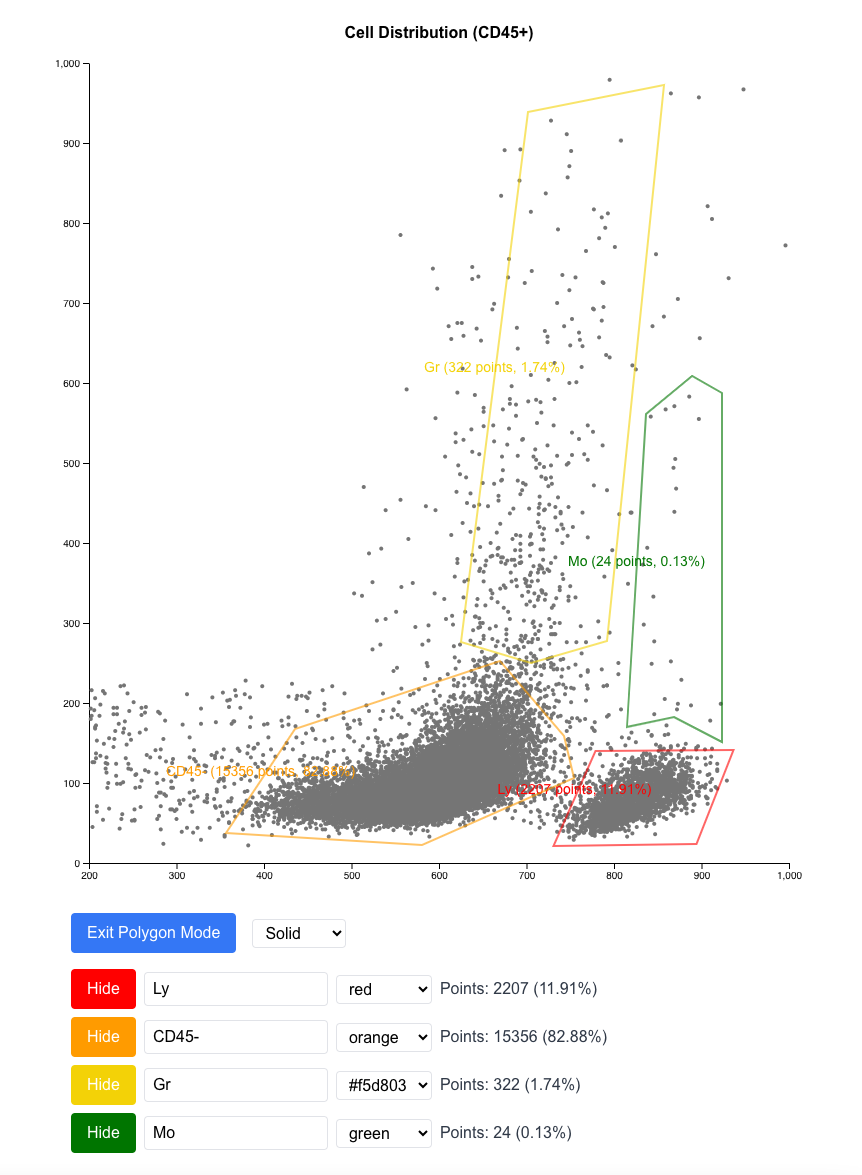
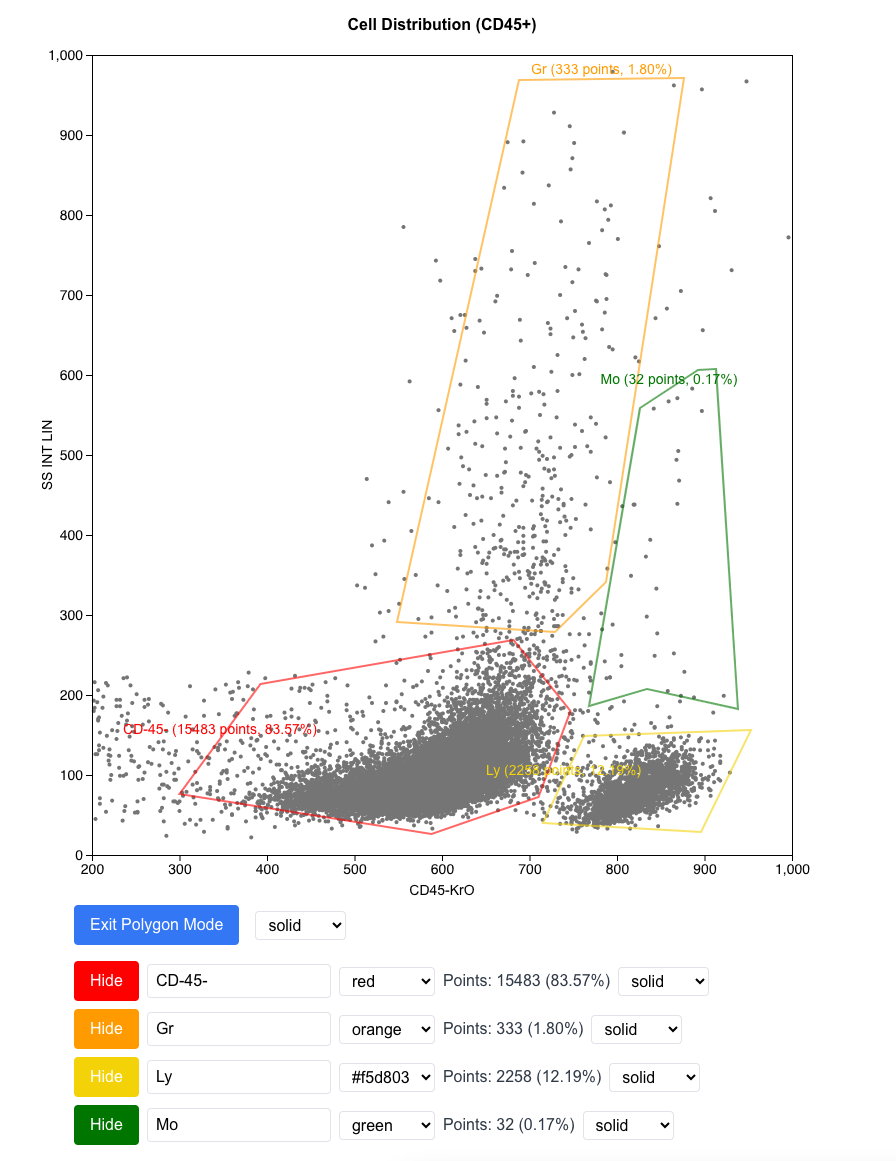
update readme and rename draw polygon button

diff --git a/src/components/ScatterPlot/PolygonControls.tsx b/src/components/ScatterPlot/PolygonControls.tsx
@@ -31,7 +31,7 @@ const PolygonControls: React.FC<PolygonControlsProps> = ({
           }}
           className="bg-blue-500 text-white px-4 py-2 rounded mr-4"
         >
-          {isPolygonMode ? "Exit Polygon Mode" : "Draw Polygon"}
+          {isPolygonMode ? "Exit Polygon Mode" : "Arbitrary Polygon"}
         </button>
         <Selecter
           value={drawLineStyle}

diff --git a/README.md b/README.md
@@ -1,11 +1,15 @@
 # Scatter Plot Visualization Project
 
+## Instructions:
+
+<img src="https://ahead-scatter.vercel.app/result.png" alt="Example Image" style="width:50%;">
+
+- Click the Arbitrary Polygon button to start selecting multiple areas in the scatter plot and click again to close the draw mode.
+- Once the selection is complete, a corresponding set of action buttons will appear below. These buttons allow you to perform operations such as hiding, labeling, changing the border color, and adjusting the border style. Additionally, the data volume and percentage will be calculated simultaneously.
+
 ## Demo Link & Expected Result Image
 
 Demo Link: [Scatter Plot Demo](https://ahead-scatter.vercel.app)
-
-Expected Result:
-<img src="https://ahead-scatter.vercel.app/result.png" alt="Example Image" style="width:50%;">
 
 ## Project Structure
 
@@ -68,3 +72,11 @@ Expected Result:
   ```bash
   docker compose up
   ```
+
+## Component
+
+1. Import **`ScatterPlot`** component
+2. Set Properties
+   - **`xAxes`**: Specifies the label for the X-axis data (e.g., "CD45-KrO").
+   - **`yAxes`**: Specifies the label for the Y-axis data (e.g., "SS INT LIN").
+   - **`title`**: Sets the title for the scatter plot.
